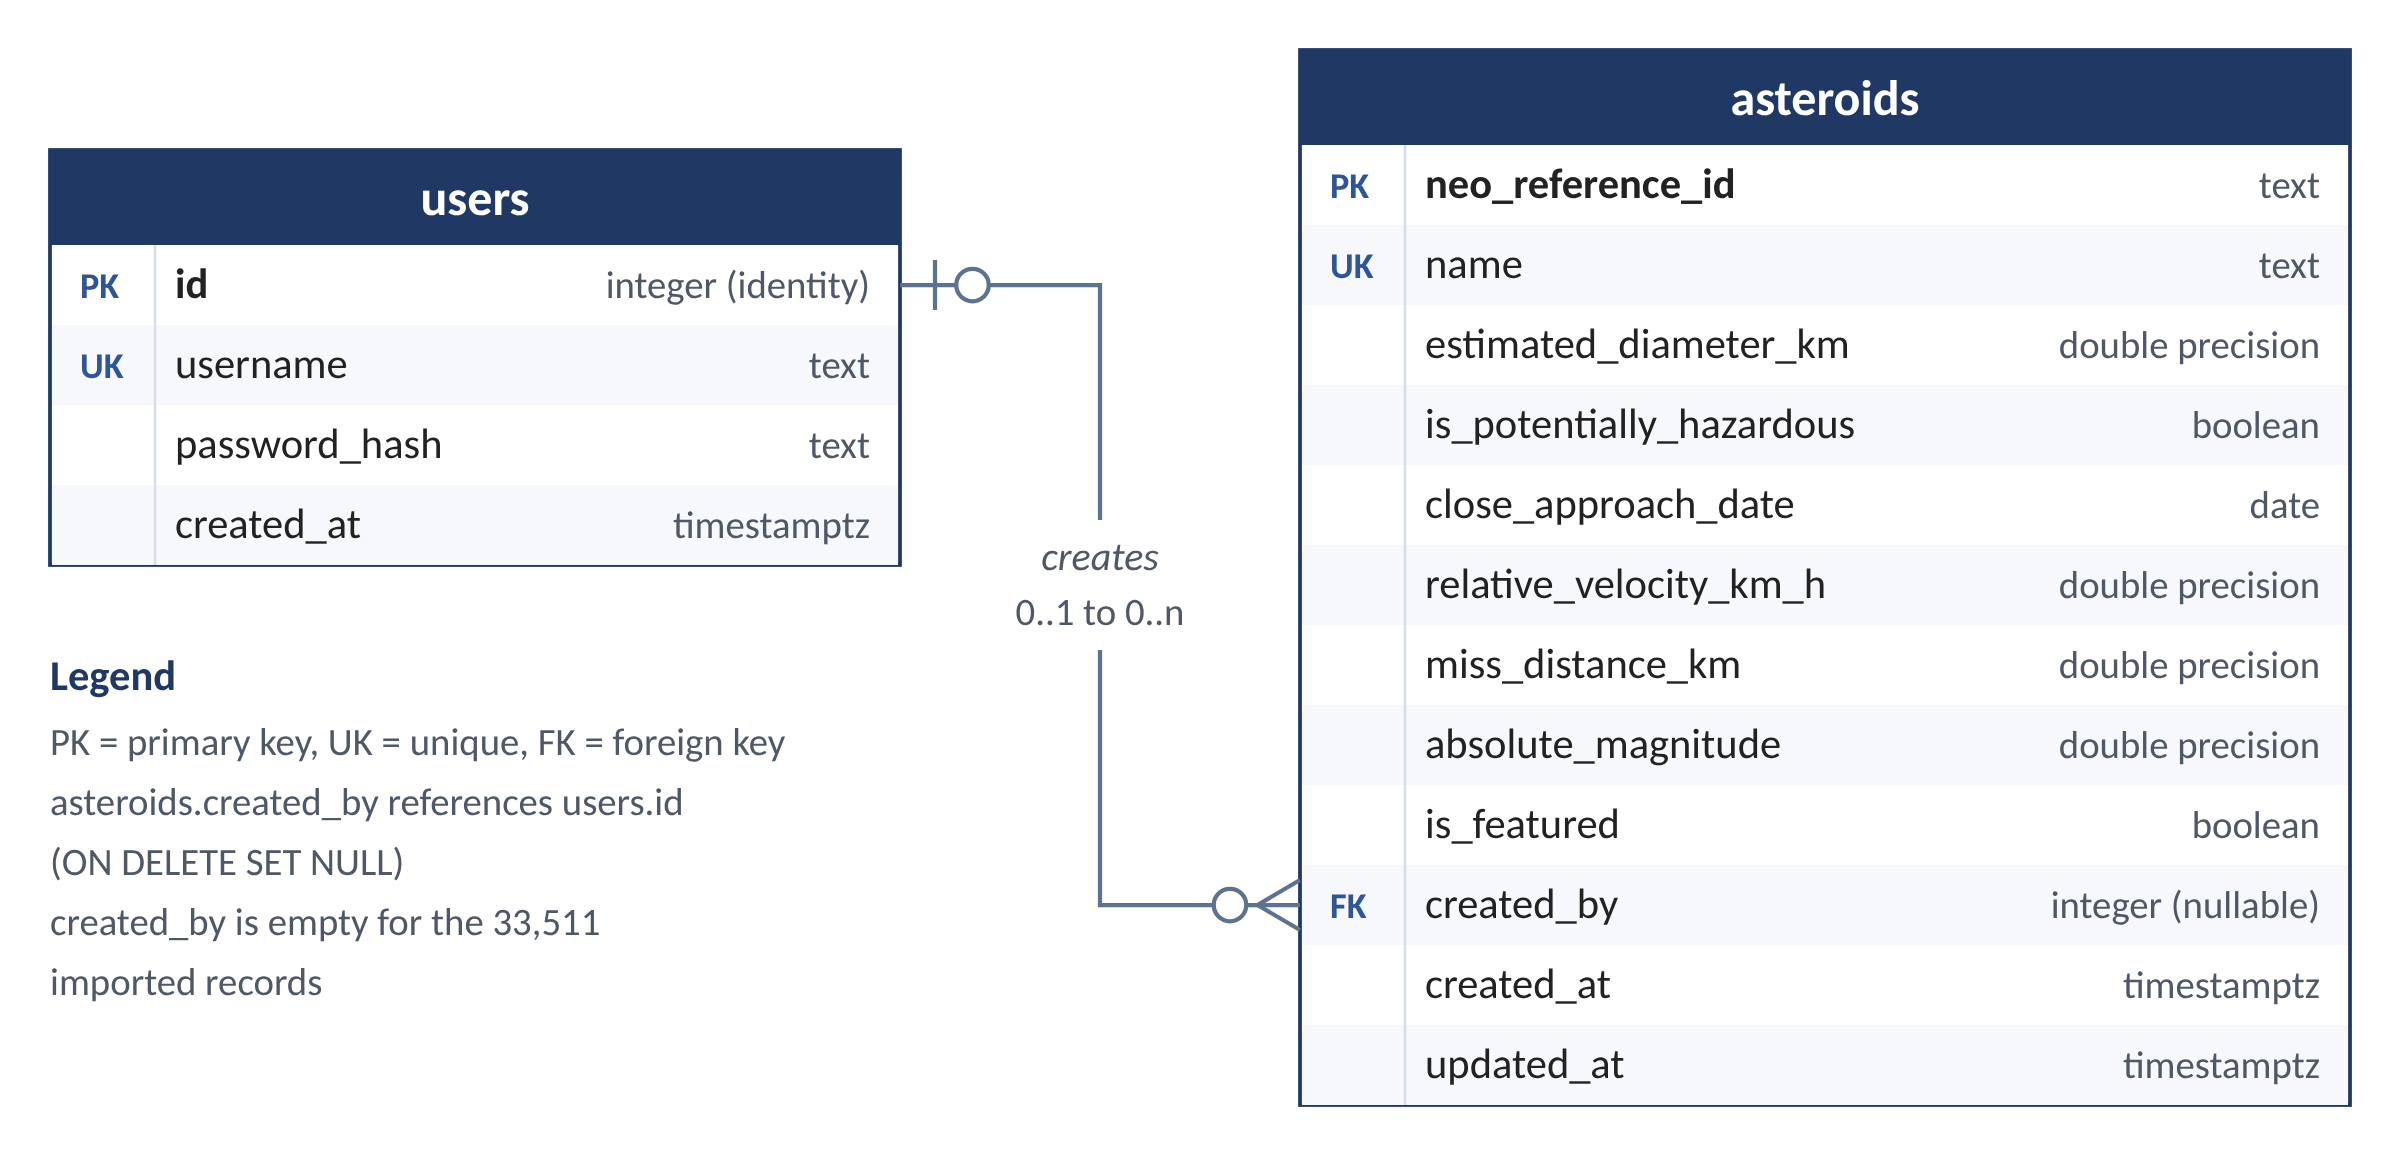
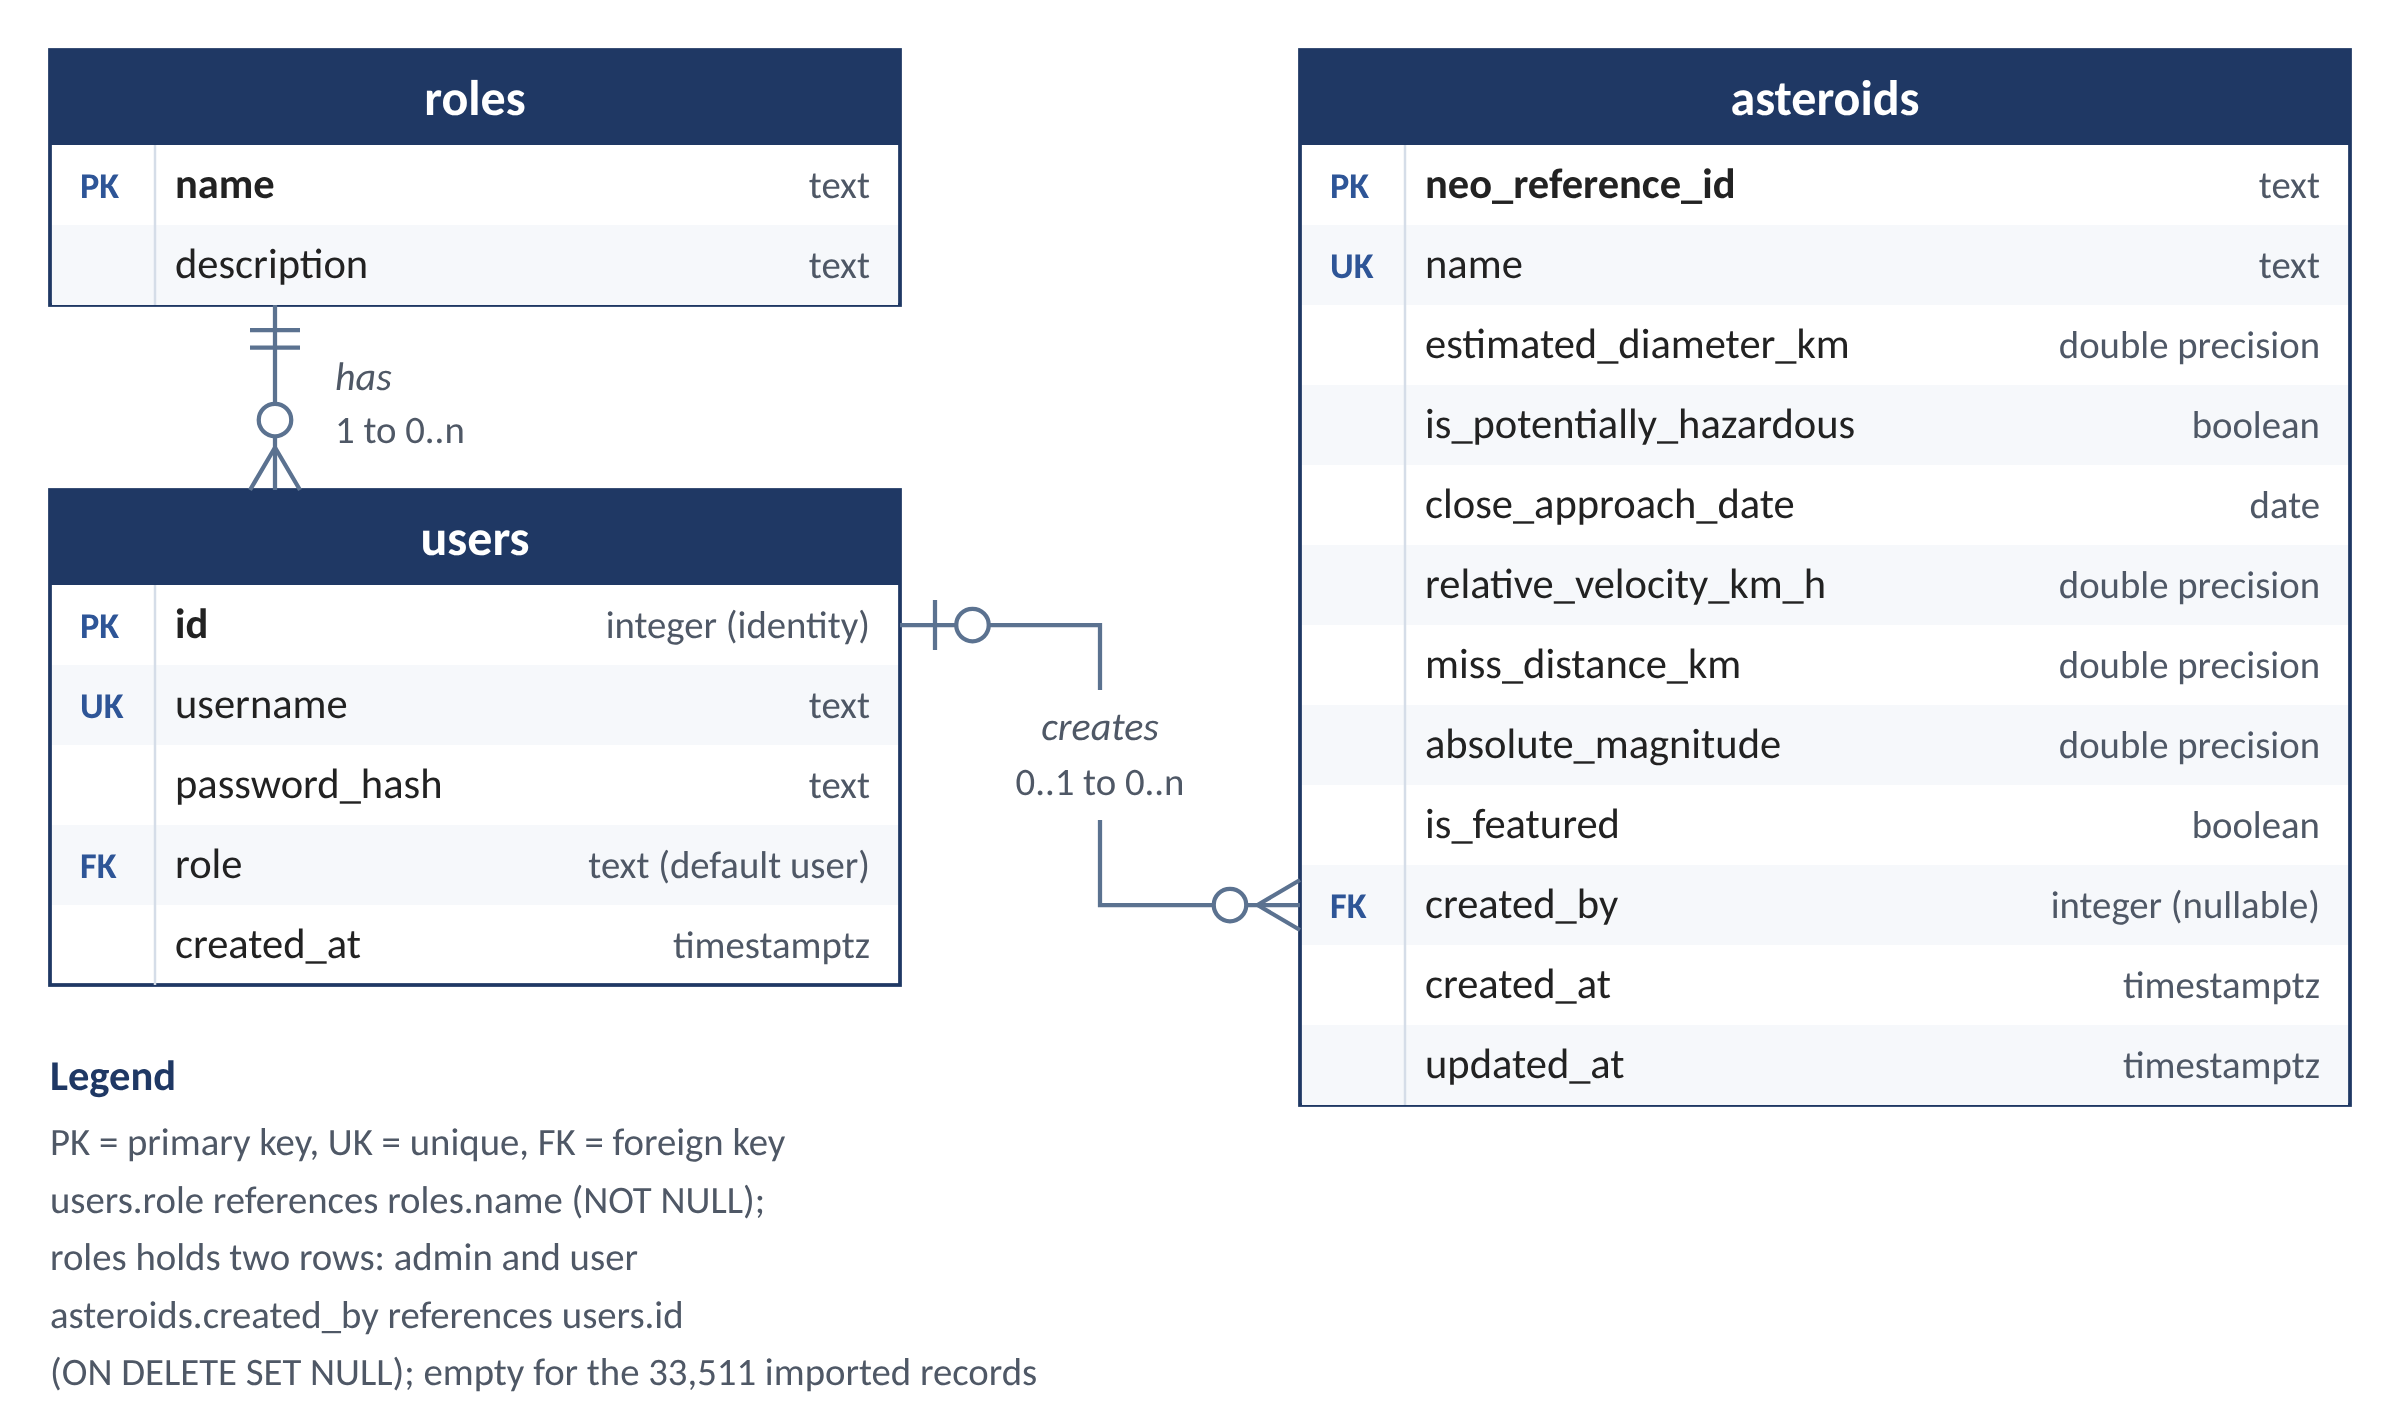
Add the roles table to the ERD
The diagram now shows roles, users and asteroids, the role column on
users, and the link from users.role to roles.name.

diff --git a/docs/part2/tools/diagrams.js b/docs/part2/tools/diagrams.js
@@ -38,23 +38,35 @@ function entity(x, y, w, name, rows) {
 }
 function erd() {
   const W = 960;
-  const u = entity(20, 60, 340, 'users', [['PK', 'id', 'integer (identity)'], ['UK', 'username', 'text'], ['', 'password_hash', 'text'], ['', 'created_at', 'timestamptz']]);
+  const r = entity(20, 20, 340, 'roles', [['PK', 'name', 'text'], ['', 'description', 'text']]);
+  const uy = 20 + r.h + 74;
+  const u = entity(20, uy, 340, 'users', [['PK', 'id', 'integer (identity)'], ['UK', 'username', 'text'], ['', 'password_hash', 'text'], ['FK', 'role', 'text (default user)'], ['', 'created_at', 'timestamptz']]);
   const a = entity(520, 20, 420, 'asteroids', [['PK', 'neo_reference_id', 'text'], ['UK', 'name', 'text'], ['', 'estimated_diameter_km', 'double precision'], ['', 'is_potentially_hazardous', 'boolean'], ['', 'close_approach_date', 'date'], ['', 'relative_velocity_km_h', 'double precision'], ['', 'miss_distance_km', 'double precision'], ['', 'absolute_magnitude', 'double precision'], ['', 'is_featured', 'boolean'], ['FK', 'created_by', 'integer (nullable)'], ['', 'created_at', 'timestamptz'], ['', 'updated_at', 'timestamptz']]);
+  let s = '';
+  // roles 1 to users 0..n (users.role references roles.name, NOT NULL)
+  const vx = 110, top = 20 + r.h, bot = uy;
+  s += `<line x1='${vx}' y1='${top}' x2='${vx}' y2='${bot}' stroke='${C.line}' stroke-width='1.7'/>`;
+  s += `<line x1='${vx - 10}' y1='${top + 10}' x2='${vx + 10}' y2='${top + 10}' stroke='${C.line}' stroke-width='1.7'/><line x1='${vx - 10}' y1='${top + 17}' x2='${vx + 10}' y2='${top + 17}' stroke='${C.line}' stroke-width='1.7'/>`;
+  s += `<path d='M${vx},${bot - 17} L${vx - 10},${bot} M${vx},${bot - 17} L${vx + 10},${bot}' stroke='${C.line}' stroke-width='1.7'/><circle cx='${vx}' cy='${bot - 28}' r='6.5' fill='#fff' stroke='${C.line}' stroke-width='1.7'/>`;
+  s += T(vx + 24, (top + bot) / 2 - 3, 'has', { italic: true, fill: C.muted, size: 16 });
+  s += T(vx + 24, (top + bot) / 2 + 18, '1 to 0..n', { fill: C.muted, size: 15.5 });
+  // users 0..1 to asteroids 0..n (asteroids.created_by references users.id)
   const y1 = u.pos.id, y2 = a.pos.created_by, x1 = 360, x2 = 520, mx = 440;
-  let s = `<path d='M${x1},${y1} H${mx} V${y2} H${x2}' fill='none' stroke='${C.line}' stroke-width='1.7'/>`;
+  s += `<path d='M${x1},${y1} H${mx} V${y2} H${x2}' fill='none' stroke='${C.line}' stroke-width='1.7'/>`;
   s += `<line x1='${x1 + 14}' y1='${y1 - 10}' x2='${x1 + 14}' y2='${y1 + 10}' stroke='${C.line}' stroke-width='1.7'/><circle cx='${x1 + 29}' cy='${y1}' r='6.5' fill='#fff' stroke='${C.line}' stroke-width='1.7'/>`;
   s += `<path d='M${x2 - 17},${y2} L${x2},${y2 - 10} M${x2 - 17},${y2} L${x2},${y2 + 10}' stroke='${C.line}' stroke-width='1.7'/><circle cx='${x2 - 28}' cy='${y2}' r='6.5' fill='#fff' stroke='${C.line}' stroke-width='1.7'/>`;
   s += `<rect x='${mx - 62}' y='${(y1 + y2) / 2 - 30}' width='124' height='52' fill='#fff'/>`;
   s += T(mx, (y1 + y2) / 2 - 10, 'creates', { anchor: 'middle', italic: true, fill: C.muted, size: 16 });
   s += T(mx, (y1 + y2) / 2 + 12, '0..1 to 0..n', { anchor: 'middle', fill: C.muted, size: 15.5 });
-  const ly = 60 + u.h + 50;
+  const ly = uy + u.h + 42;
+  const legend = ['PK = primary key, UK = unique, FK = foreign key',
+    'users.role references roles.name (NOT NULL);',
+    'roles holds two rows: admin and user',
+    'asteroids.created_by references users.id',
+    '(ON DELETE SET NULL); empty for the 33,511 imported records'];
   s += T(20, ly, 'Legend', { bold: true, fill: C.navy, size: 17 });
-  s += T(20, ly + 26, 'PK = primary key, UK = unique, FK = foreign key', { size: 15.5, fill: C.muted });
-  s += T(20, ly + 50, 'asteroids.created_by references users.id', { size: 15.5, fill: C.muted });
-  s += T(20, ly + 74, '(ON DELETE SET NULL)', { size: 15.5, fill: C.muted });
-  s += T(20, ly + 98, 'created_by is empty for the 33,511', { size: 15.5, fill: C.muted });
-  s += T(20, ly + 122, 'imported records', { size: 15.5, fill: C.muted });
-  return { W, H: 20 + a.h + 20, body: u.s + a.s + s };
+  legend.forEach((l, i) => s += T(20, ly + 26 + i * 23, l, { size: 15.5, fill: C.muted }));
+  return { W, H: Math.max(20 + a.h + 20, ly + 26 + (legend.length - 1) * 23 + 16), body: r.s + u.s + a.s + s };
 }
 
 // ---------- Architecture ----------
